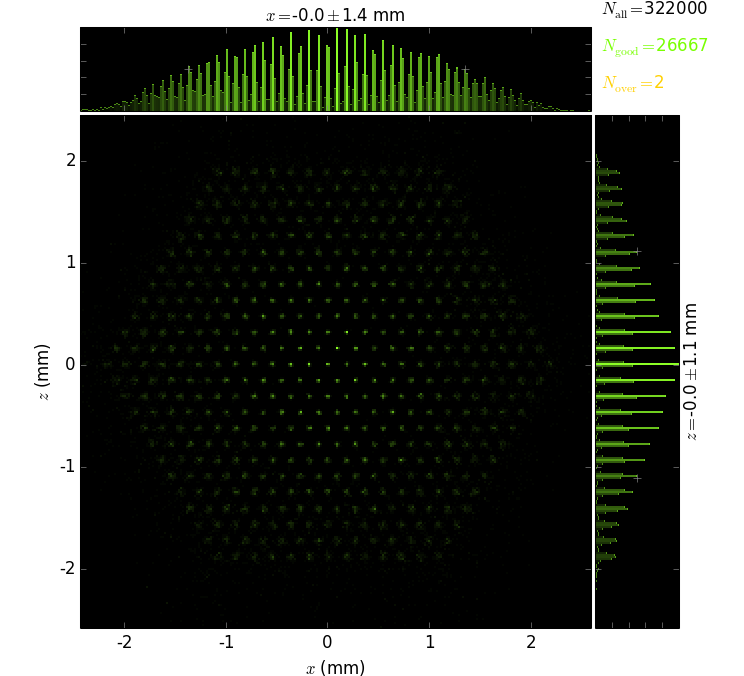
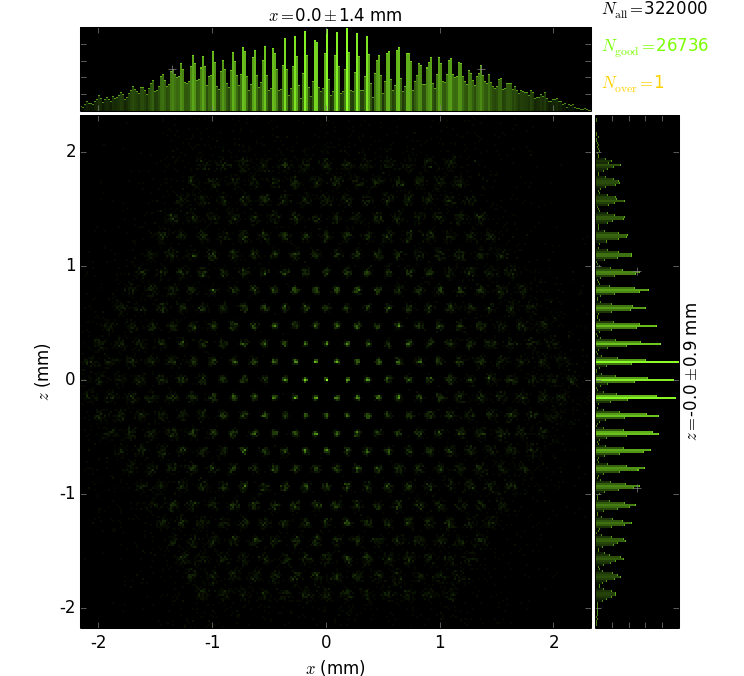
d = f + 100, rep=320, 2.5ks

diff --git a/myCapillary0A.py b/myCapillary0A.py
@@ -126,7 +126,7 @@ def build_beamline(nrays=1000):
 #    beamLine.sources[0].dxprime = (np.arcsin((2*n-3) * (r0+wall) / rSample),
 #        np.arcsin((2*n+1) * (r0+wall) / rSample))
 #    beamLine.sources[0].dxprime = 0, np.arcsin(r0 / rSample)
-    beamLine.fsm2 = rsc.Screen(beamLine, 'DiamondFSM2', (0, f+75, 0))
+    beamLine.fsm2 = rsc.Screen(beamLine, 'DiamondFSM2', (0, f+100, 0))
     return beamLine
 
 def run_process(beamLine, shineOnly1stSource=False):
@@ -195,7 +195,7 @@ def main():
     plot.baseName = 'NCapillaries-a-FSM1Cat'
     plot.saveName = plot.baseName + '.png'
     plots.append(plot)
-    xrtr.run_ray_tracing(plots, repeats=5000, beamLine=beamLine,
+    xrtr.run_ray_tracing(plots, repeats=322, beamLine=beamLine,
                          processes=2)
 
 #    for i in beamLine.firstInLayer:
